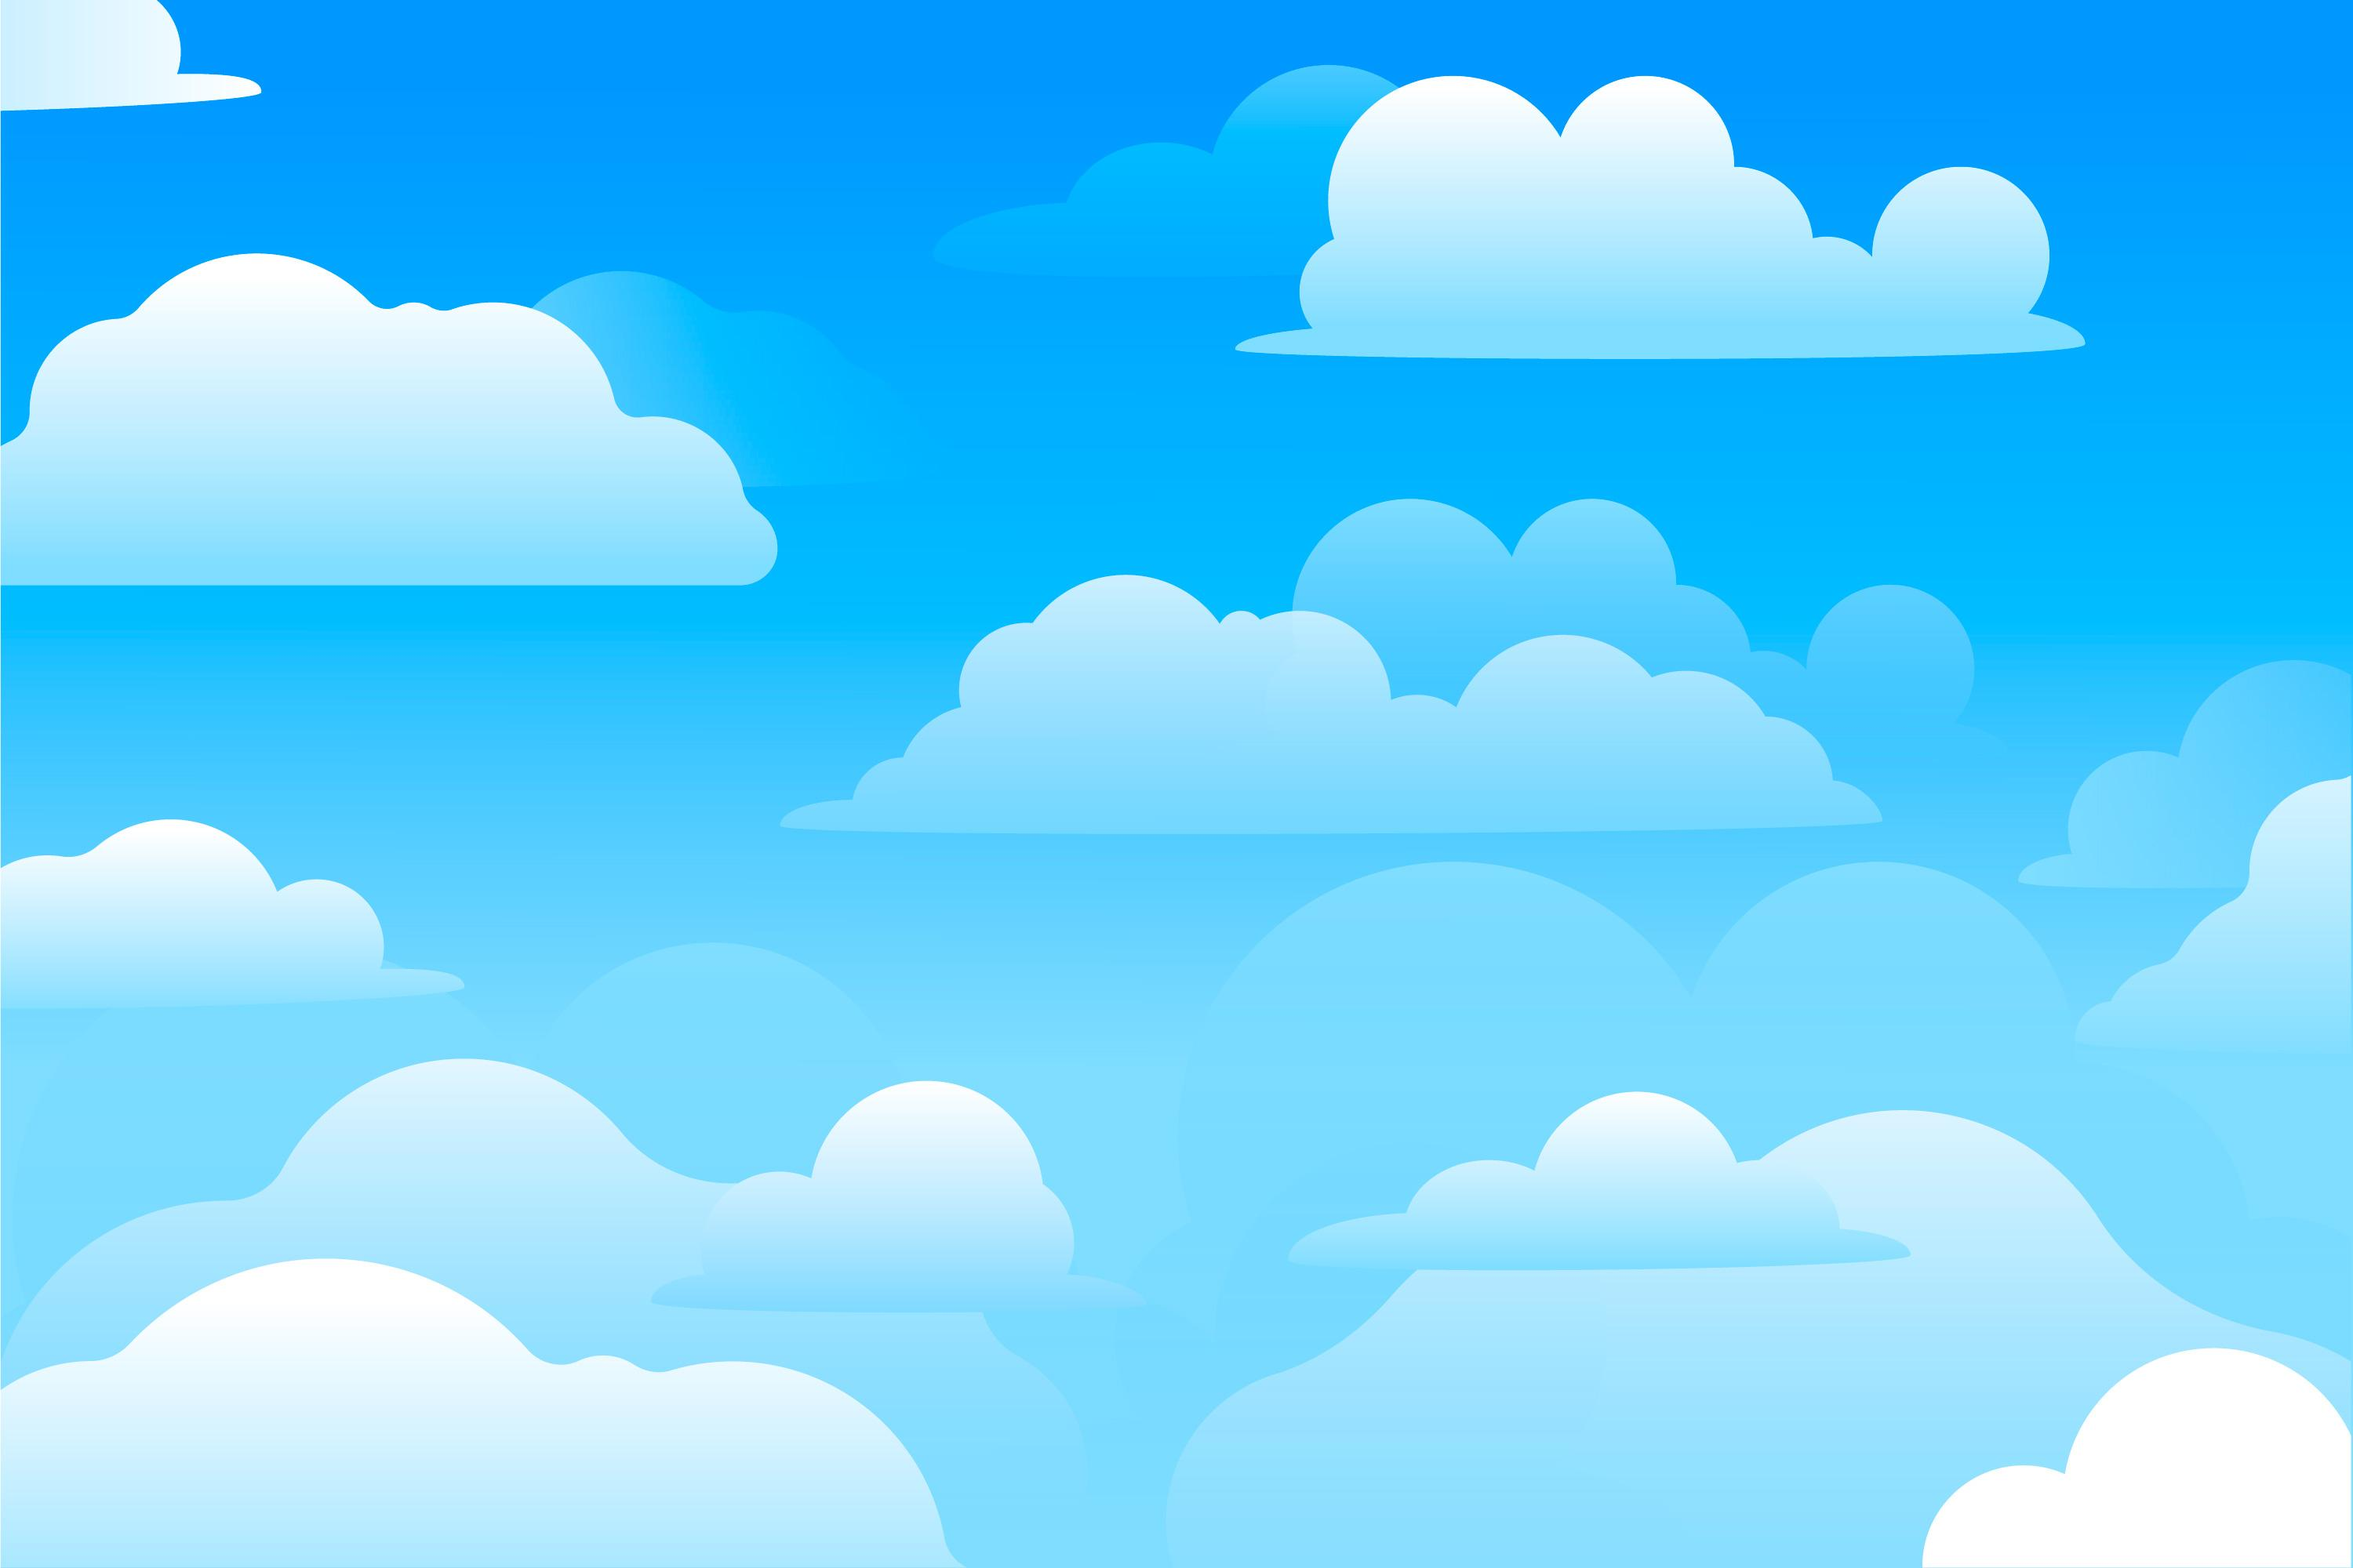
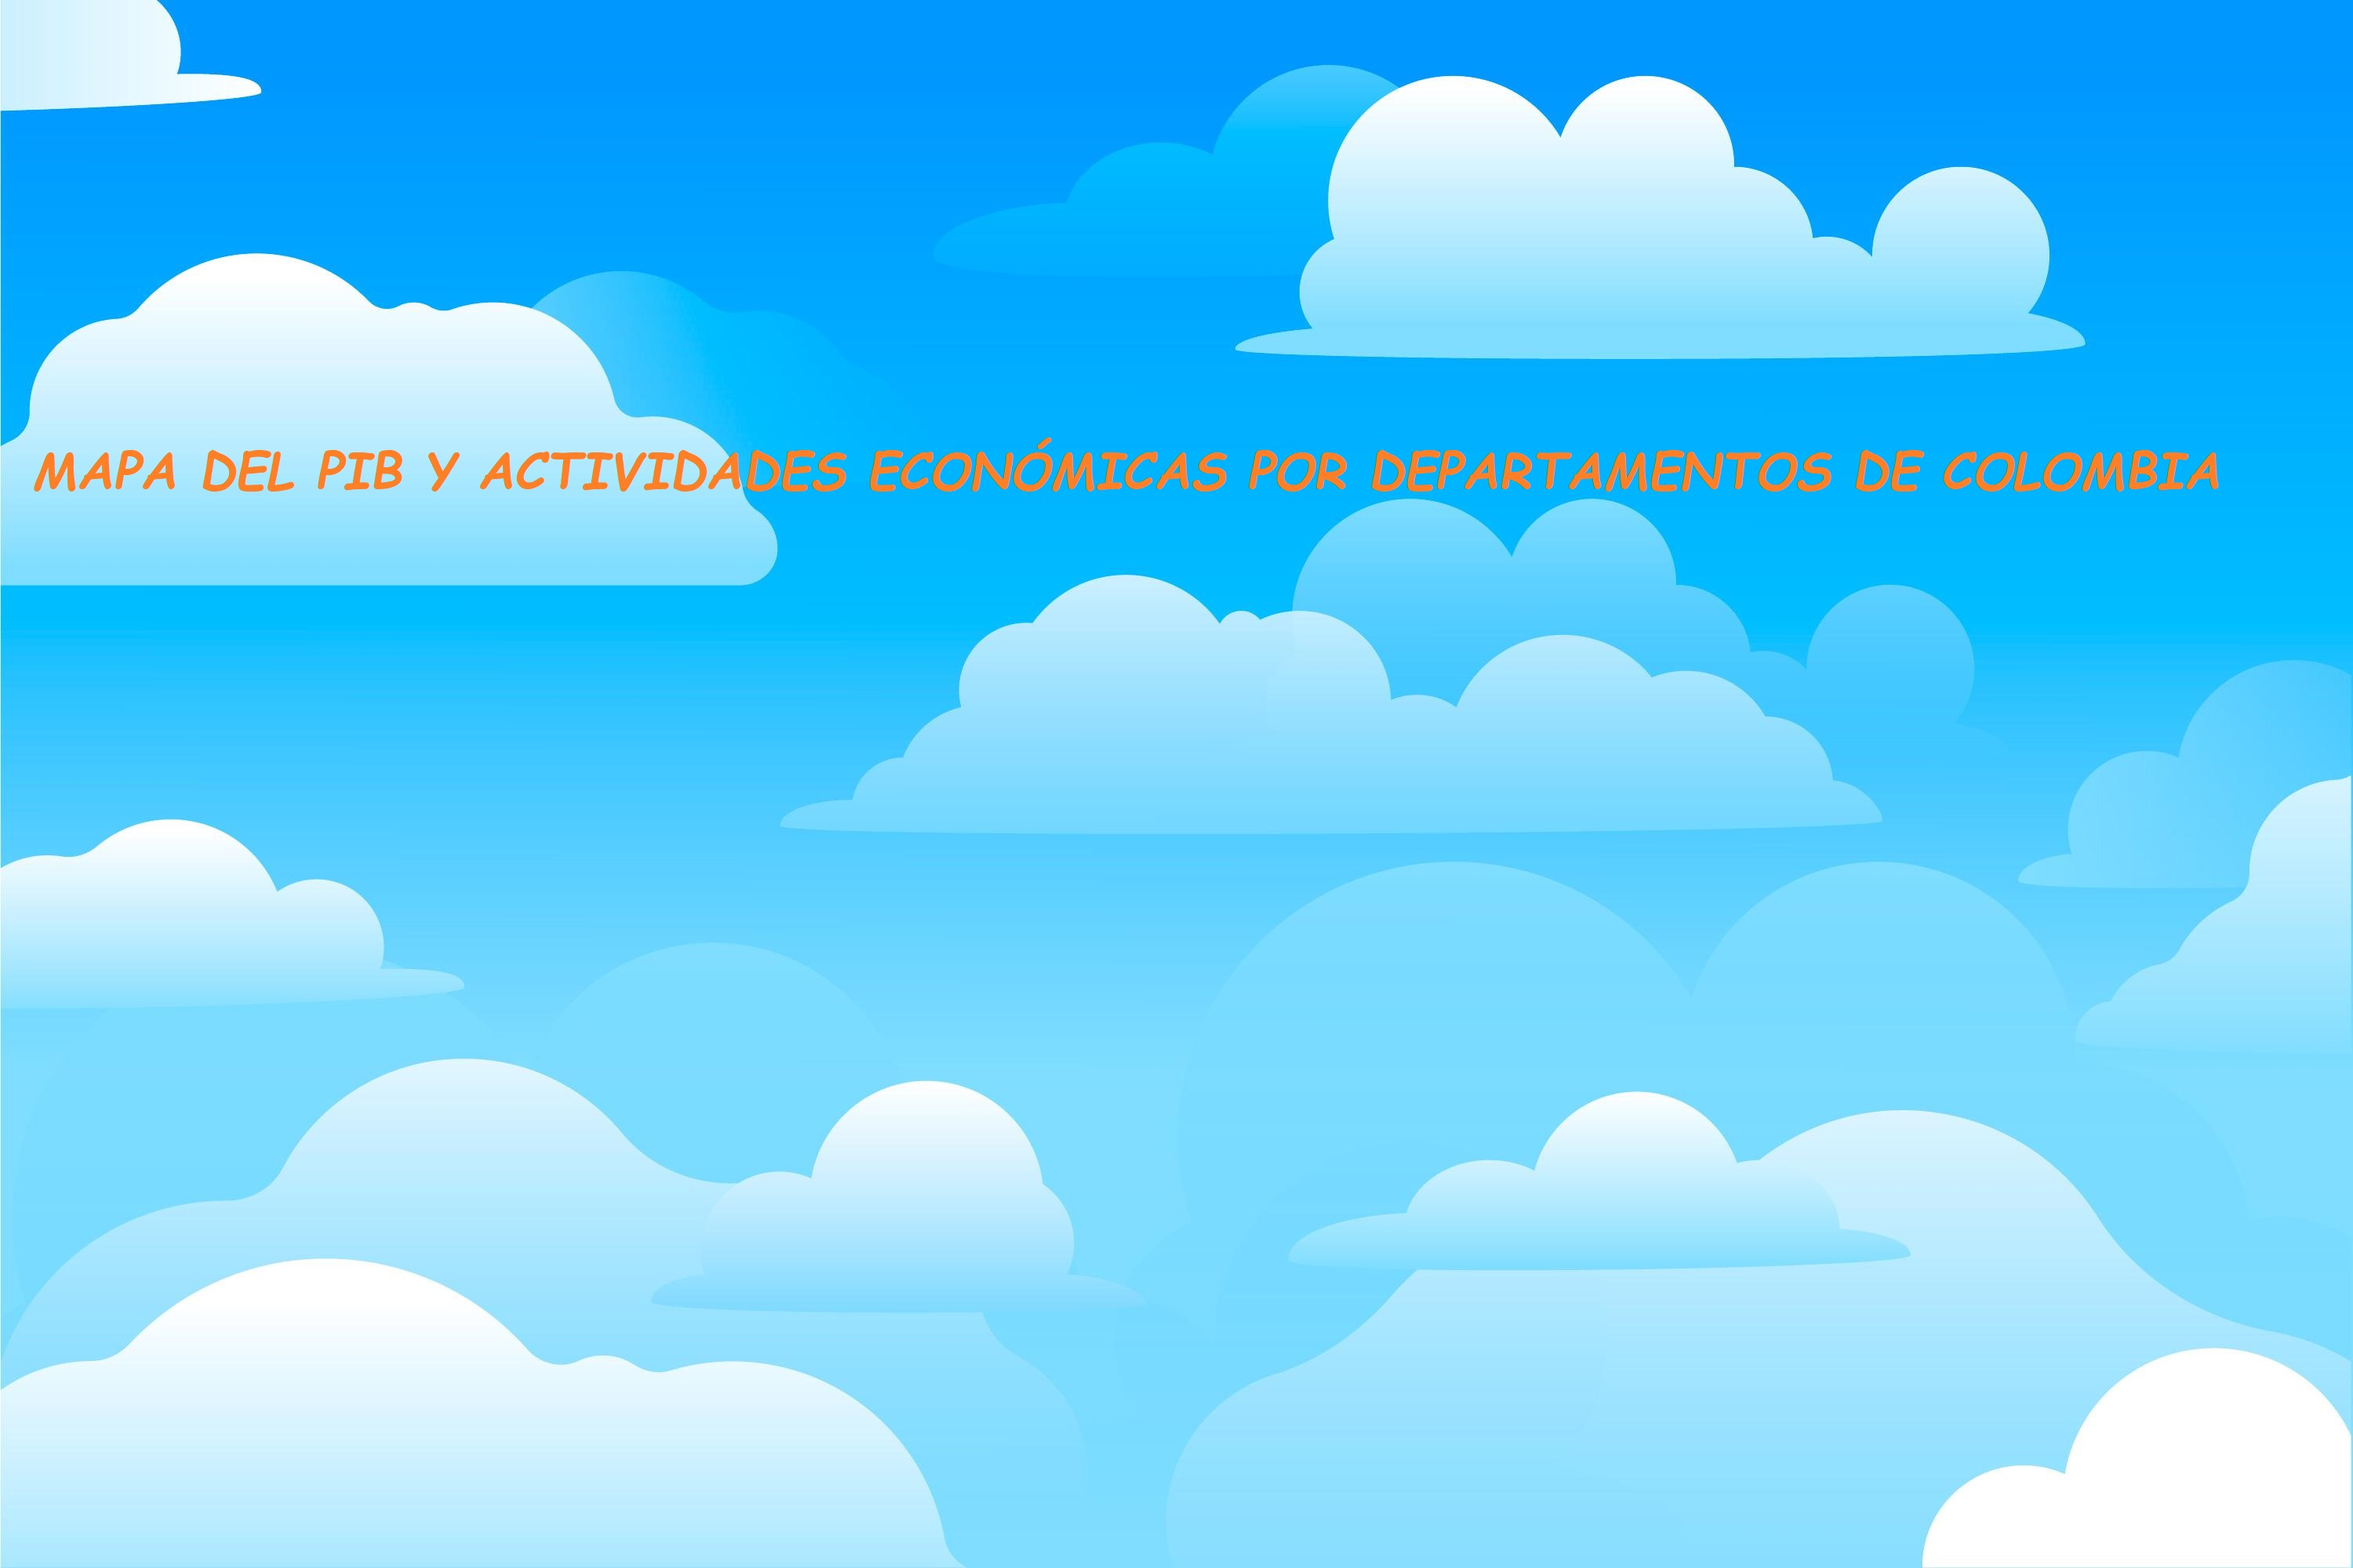
edit foto a

Changed region(s): [[0.0, 0.279, 0.961, 0.31]]

diff --git a/style.css b/style.css
@@ -199,3 +199,20 @@ body {
   text-align: center;
   margin-bottom: 10px; /* Espacio entre el subtítulo y la tabla */
 }
+
+/*titulo*/
+.title {
+  font-size: 2.5em;
+  font-weight: bold;
+  text-align: center;
+  color: #ffdd00; /* Color inicial */
+  animation: colorChange 3s infinite;
+  padding: 10px;
+  text-shadow: 2px 2px 4px rgba(0, 0, 0, 0.5); /* Sombra para mejorar la visibilidad */
+}
+
+@keyframes colorChange {
+  0% { color: #ffdd00; }
+  50% { color: #ff5555; }
+  100% { color: #ffdd00; }
+}

diff --git a/index.html b/index.html
@@ -69,6 +69,7 @@
 
       <main role="main" class="inner cover">
 
+
         <div id="colombia" class="map tall text-left"></div>
 
         <div class="card fixed-bottom" style="margin:10px;text-shadow:none">
